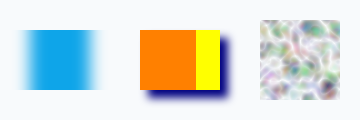
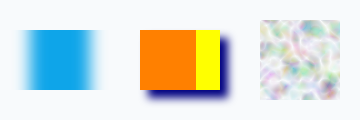
WebPlatform: generate the turbulence of a CanvasFilter in linearRGB, as feTurbulence

diff --git a/src/Meziantou.Framework.WebPlatform/Html/Canvas/CanvasFilter.cs b/src/Meziantou.Framework.WebPlatform/Html/Canvas/CanvasFilter.cs
@@ -11,7 +11,8 @@ namespace Meziantou.Framework.WebPlatform.Dom;
 /// A filter of the 2D contexts described by a list of filter primitives (https://github.com/whatwg/html/issues/5621, the
 /// <see href="https://github.com/fserb/canvas2D/blob/master/spec/filters.md">explainer</see>): the
 /// <see cref="CanvasRenderingContext2DBase.Filter"/> of a context, or the filter of a layer
-/// (<see cref="BeginLayerOptions.Filter"/>). The primitives apply in sRGB, in the order of the list.
+/// (<see cref="BeginLayerOptions.Filter"/>). The primitives apply in sRGB, in the order of the list, except the noise of
+/// <c>turbulence</c>, which is generated in linearRGB as the one of an SVG <c>feTurbulence</c> element (as in Chromium).
 /// </summary>
 /// <remarks>
 /// A primitive is described by a dictionary of strings (<c>record&lt;DOMString, any&gt;</c>) whose <c>name</c> is
@@ -177,7 +178,9 @@ public sealed class CanvasFilter
 
     private sealed record TurbulenceOperation(TurbulencePrimitive Primitive) : Operation
     {
-        public override DisplayFilter CreateFilter(PhysicalRect region) => CreateGraph(Primitive, region);
+        // The noise is generated in linearRGB, the default color-interpolation-filters of feTurbulence (WPT
+        // html/canvas/element/manual/filters/tentative/canvas-filter-object-turbulence.html)
+        public override DisplayFilter CreateFilter(PhysicalRect region) => new FilterGraph([Primitive with { Inputs = [FilterInput.SourceGraphic], Subregion = region, LinearRgb = true }], region);
     }
 
     /// <summary>A primitive that does nothing (e.g. an unknown primitive, or a convolution with an empty kernel).</summary>

diff --git a/tests/Meziantou.Framework.WebPlatform.Imaging.Tests/CanvasTests.cs b/tests/Meziantou.Framework.WebPlatform.Imaging.Tests/CanvasTests.cs
@@ -1366,6 +1366,19 @@ public sealed class CanvasTests : IDisposable
         Assert.Contains(pixels, value => value is > 0 and < 255);
     }
 
+    [Fact]
+    public void CanvasFilter_TurbulenceIsTheNoiseOfAnSvgFeTurbulenceElement()
+    {
+        var context = _pages.Load("<svg width=0 height=0><filter id=t><feTurbulence baseFrequency='0.05' numOctaves='2' seed='3'/></filter></svg><canvas id=a width=20 height=10></canvas><canvas id=b width=20 height=10></canvas>", scriptingEnabled: true);
+        var filtered = (CanvasRenderingContext2D)((HtmlCanvasElement)context.Document!.GetElementById("a")!).GetContext("2d")!;
+        var referenced = (CanvasRenderingContext2D)((HtmlCanvasElement)context.Document!.GetElementById("b")!).GetContext("2d")!;
+        filtered.Filter = new CanvasFilter(new Dictionary<string, object?> { ["name"] = "turbulence", ["baseFrequency"] = 0.05, ["numOctaves"] = 2, ["seed"] = 3 });
+        filtered.FillRect(0, 0, 1, 1);
+        referenced.Filter = "url(#t)";
+        referenced.FillRect(0, 0, 1, 1);
+        Assert.Equal(referenced.GetImageData(0, 0, 20, 10).Data.ToArray(), filtered.GetImageData(0, 0, 20, 10).Data.ToArray());
+    }
+
 #pragma warning disable WEBPLATEXP0017 // The canvas layers are a proposal
     [Fact]
     public void CanvasFilter_IsTheFilterOfALayer()

diff --git a/docs/WebPlatform/07-Rendering/05-Canvas.md b/docs/WebPlatform/07-Rendering/05-Canvas.md
@@ -180,7 +180,8 @@ A [CanvasFilter](cref:Meziantou.Framework.WebPlatform.Dom.CanvasFilter) describe
 primitives instead of CSS filter functions. It is the [Filter](cref:Meziantou.Framework.WebPlatform.Dom.CanvasRenderingContext2DBase.Filter)
 of a context, or the filter of a layer. Each primitive is a dictionary whose `name` is `gaussianBlur`, `dropShadow`,
 `colorMatrix`, `componentTransfer`, `convolveMatrix` or `turbulence`, and whose other entries are the attributes of the
-SVG primitive (`stdDeviation`, `dx`, `floodColor`, `funcR`, `kernelMatrix`, `baseFrequency`...):
+SVG primitive (`stdDeviation`, `dx`, `floodColor`, `funcR`, `kernelMatrix`, `baseFrequency`...). The primitives apply in
+sRGB, except `turbulence`, whose noise is generated in linearRGB as the one of `feTurbulence`:
 
 <!-- ref:../../../tests/Meziantou.Framework.WebPlatform.Imaging.Tests/DocumentationImageTests.cs;region=WebPlatformImaging_CanvasFilters;format=md-fenced-code-block;dedent=true -->
 ```csharp
